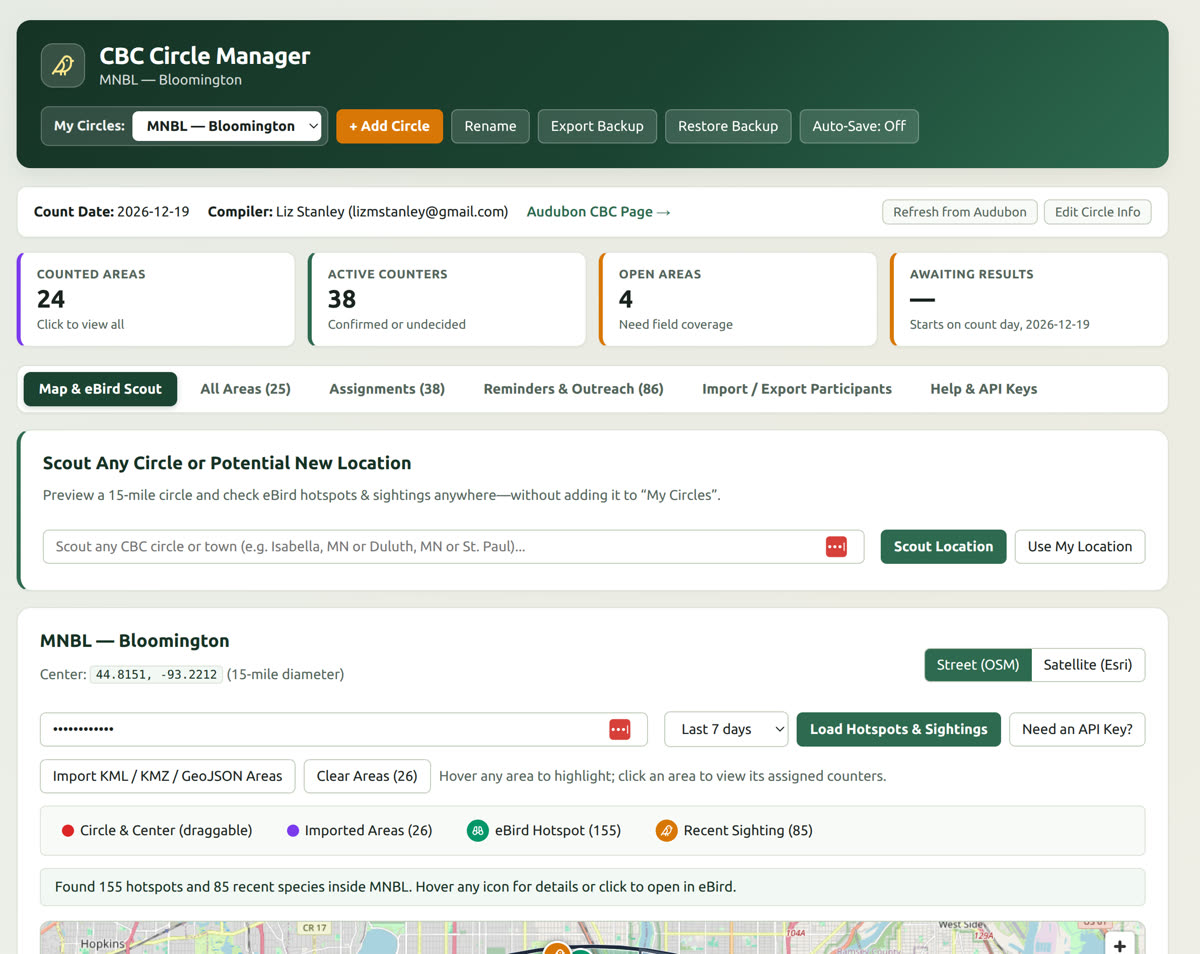
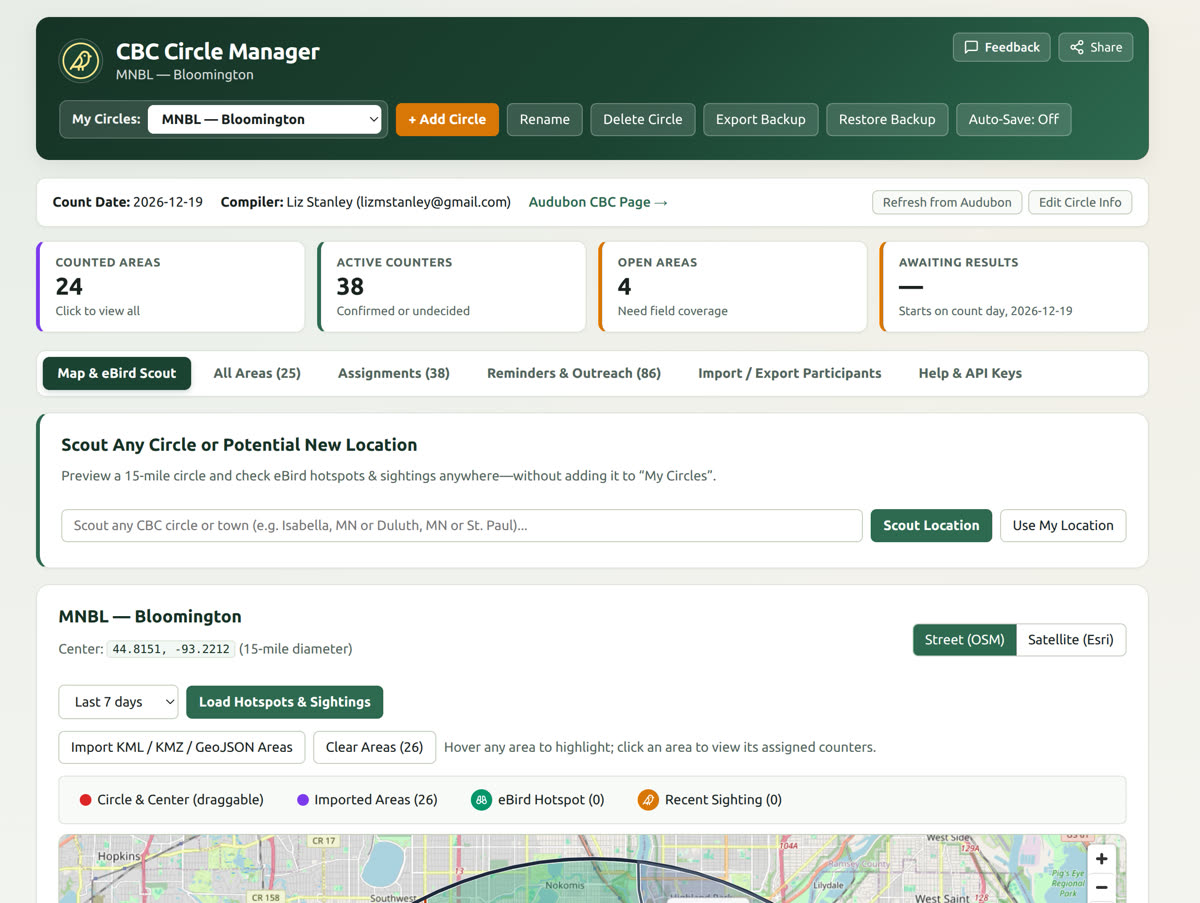
README: new header screenshot and eBird key setup steps

Changed region(s): [[0.0, 0.0, 0.9867, 1.0], [0.4008, 0.0, 0.4317, 0.031]]

diff --git a/README.md b/README.md
@@ -10,7 +10,7 @@ The roster lives in a PostgreSQL database that runs inside your browser ([PGlite
 
 This is the Bloomington, MN circle. I drew the 26 count areas in Google My Maps and imported them as a KML file. The hotspots and recent sightings came from eBird with my own API key.
 
-The top of the page shows the circle's count date and compiler, how many areas are counted, how many people are counting, which areas still need a field counter, and, from count day on, which areas haven't sent in results:
+The top of the page shows the circle's count date and compiler, how many areas are counted, how many people are counting, which areas still need a field counter, and, from count day on, which areas haven't sent in results. **Feedback** and **Share** are in the top right:
 
 ![The top of the page for the Bloomington, MN circle: count date, compiler, and cards for 24 counted areas, 38 active counters, 4 open areas, and awaiting results.](docs/screenshots/overview.jpg)
 
@@ -28,7 +28,7 @@ Hover over a recent sighting to see the species, count, place, and date, with a 
 
 ## Before you start
 
-- **It's bring your own key (BYOK).** The map's eBird hotspots and recent sightings need your own eBird API key. The key is free: request one at [ebird.org/api/keygen](https://ebird.org/api/keygen) and save it on the **Help & API Keys** tab. One key works for every circle and for scouting. It's stored only in your browser's `localStorage`. Everything else works without a key.
+- **It's bring your own key (BYOK).** The map's eBird hotspots and recent sightings need your own eBird API key. Everything else works without one, including scouting a new location. See [Set up your eBird key](#set-up-your-ebird-key).
 - **It doesn't draw areas.** The app shows the 15-mile circle, but it can't draw your count areas (sectors) on it. If you want area outlines on the map, make them somewhere else and import them as a KML, KMZ, or GeoJSON file. As far as I know, the Audubon site doesn't export area boundaries. Google My Maps does: draw each area as a shape, name it with its area code (for example `12 - Richfield`), and export the map to KML.
 
 ## Features
@@ -38,8 +38,19 @@ Hover over a recent sighting to see the species, count, place, and date, with a 
 - **Roster and assignments:** reassign counters between areas, see open areas (areas with no confirmed field counter), and track which areas have sent in results.
 - **Reminders and outreach:** a list of people on your current list who haven't answered yet this season, with a Copy BCC button. Until you mark a current list, it shows every active person who hasn't answered. Possible Outreach lists people on the Audubon list who aren't on your current list, and people on your current list who also have another email that may be old. Tick **This file is my current list** when you import your mailing list. Outreach shows only active and inactive people.
 - **Map:** a draggable 15-mile-diameter circle with OpenStreetMap street tiles or Esri satellite tiles. Imported area outlines highlight when you hover over them, and clicking one opens that area.
-- **eBird scouting:** hotspots and recent sightings inside the circle, using your eBird API key.
+- **eBird scouting:** hotspots and recent sightings inside the circle, using your eBird API key. Each hotspot and sighting is listed with the count area it falls in.
 - **Import and export:** import a participant spreadsheet (`.xlsx` or `.csv`) and match its columns, or import the participant list you export from your Audubon circle page, which needs no setup. You can also export the roster to Excel or CSV, and export or restore a full JSON backup.
+
+## Set up your eBird key
+
+You set the key once, on the **Help & API Keys** tab. It isn't on the map page, and it isn't per circle: one key works for every circle and for scouting.
+
+1. Sign in to eBird and request a free key at [ebird.org/api/keygen](https://ebird.org/api/keygen). For the intended use, something like "Christmas Bird Count circle scouting" is fine. The key shows up right away.
+2. In the app, open the **Help & API Keys** tab.
+3. Paste the key into the box under the steps and click **Save Key**.
+4. Go to **Map & eBird Scout**, pick how many days back you want, and click **Load Hotspots & Sightings**.
+
+Until a key is saved, **Load Hotspots & Sightings** and the days dropdown are grayed out. Hover over them and they tell you where to add the key. The key is saved only in this browser's `localStorage` and is sent only to eBird. To forget it, click **Remove Key** on the same tab. The hosted copy and a copy you run yourself each need the key saved once, because each address has its own browser storage.
 
 ## Import your roster
 
